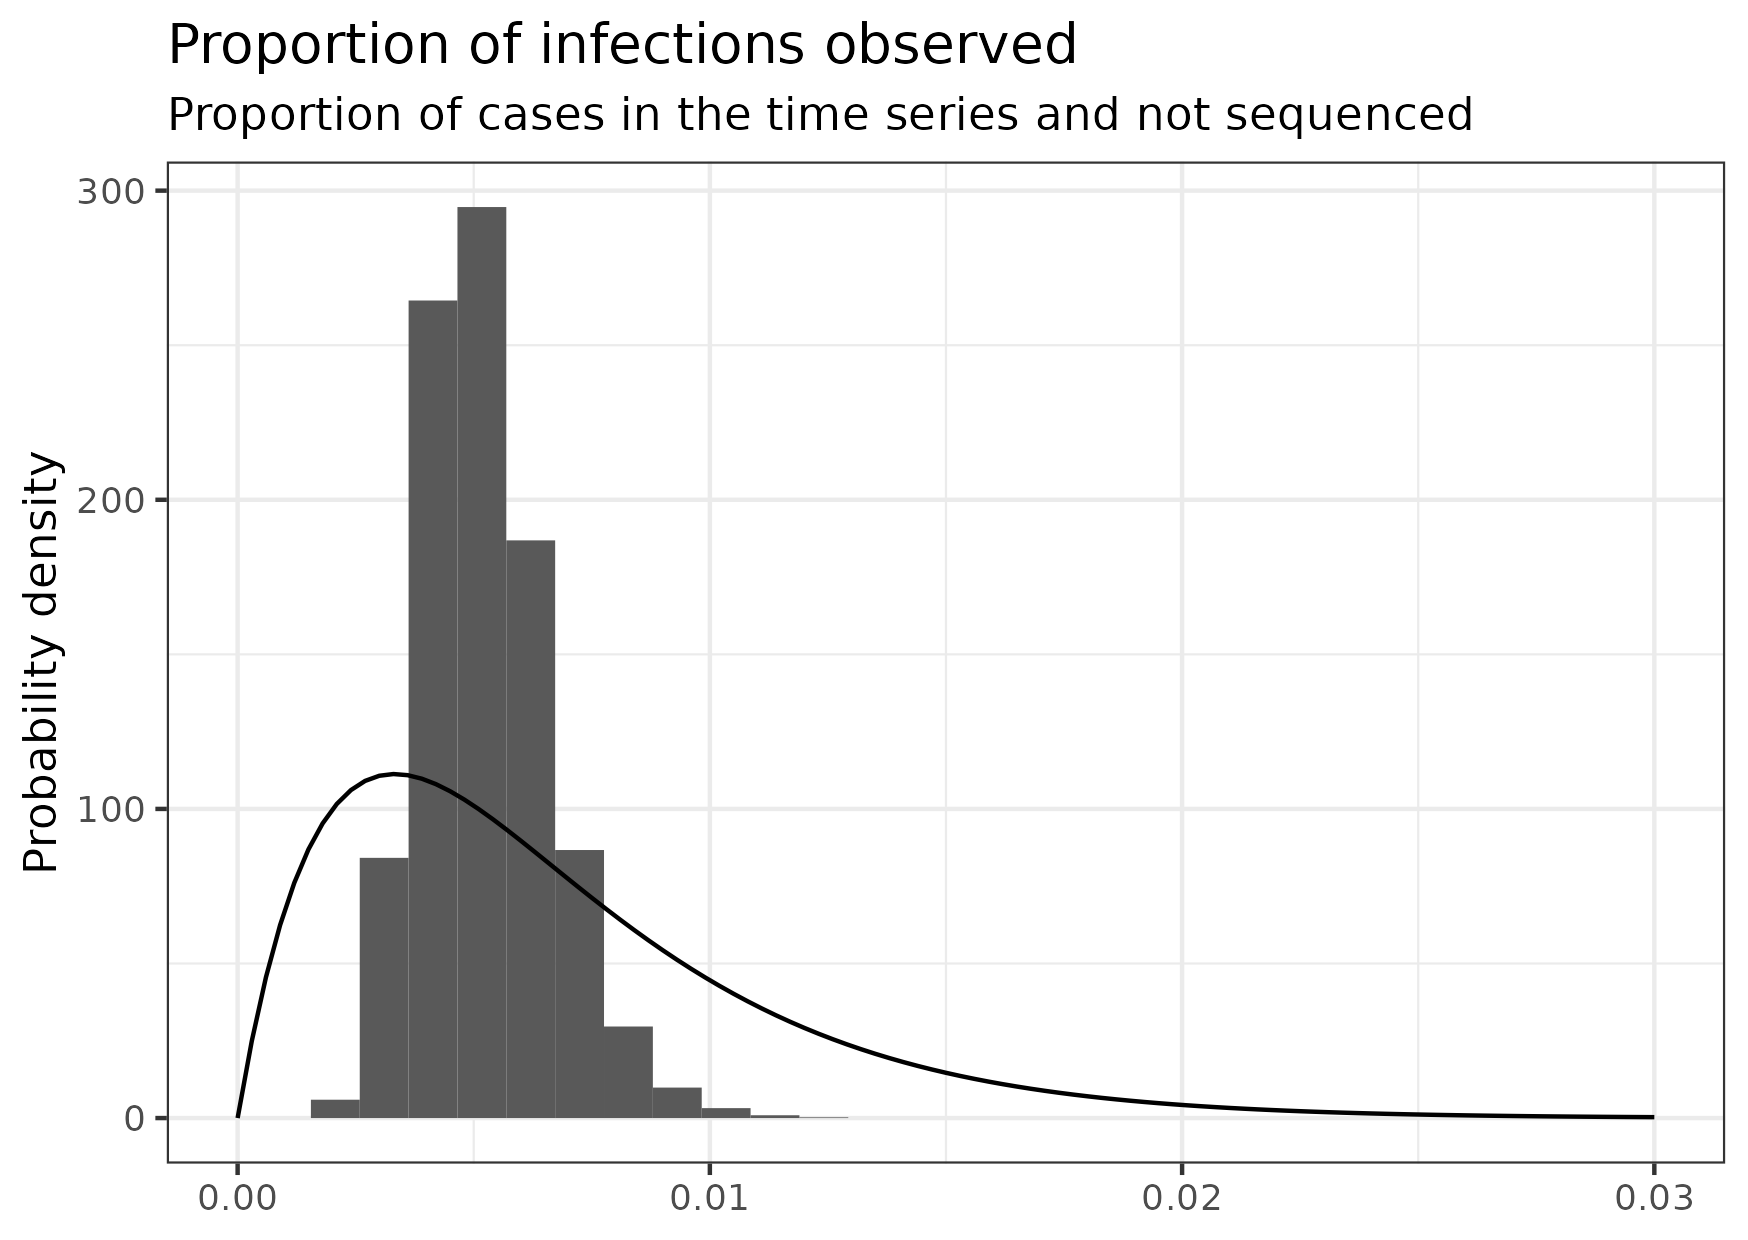
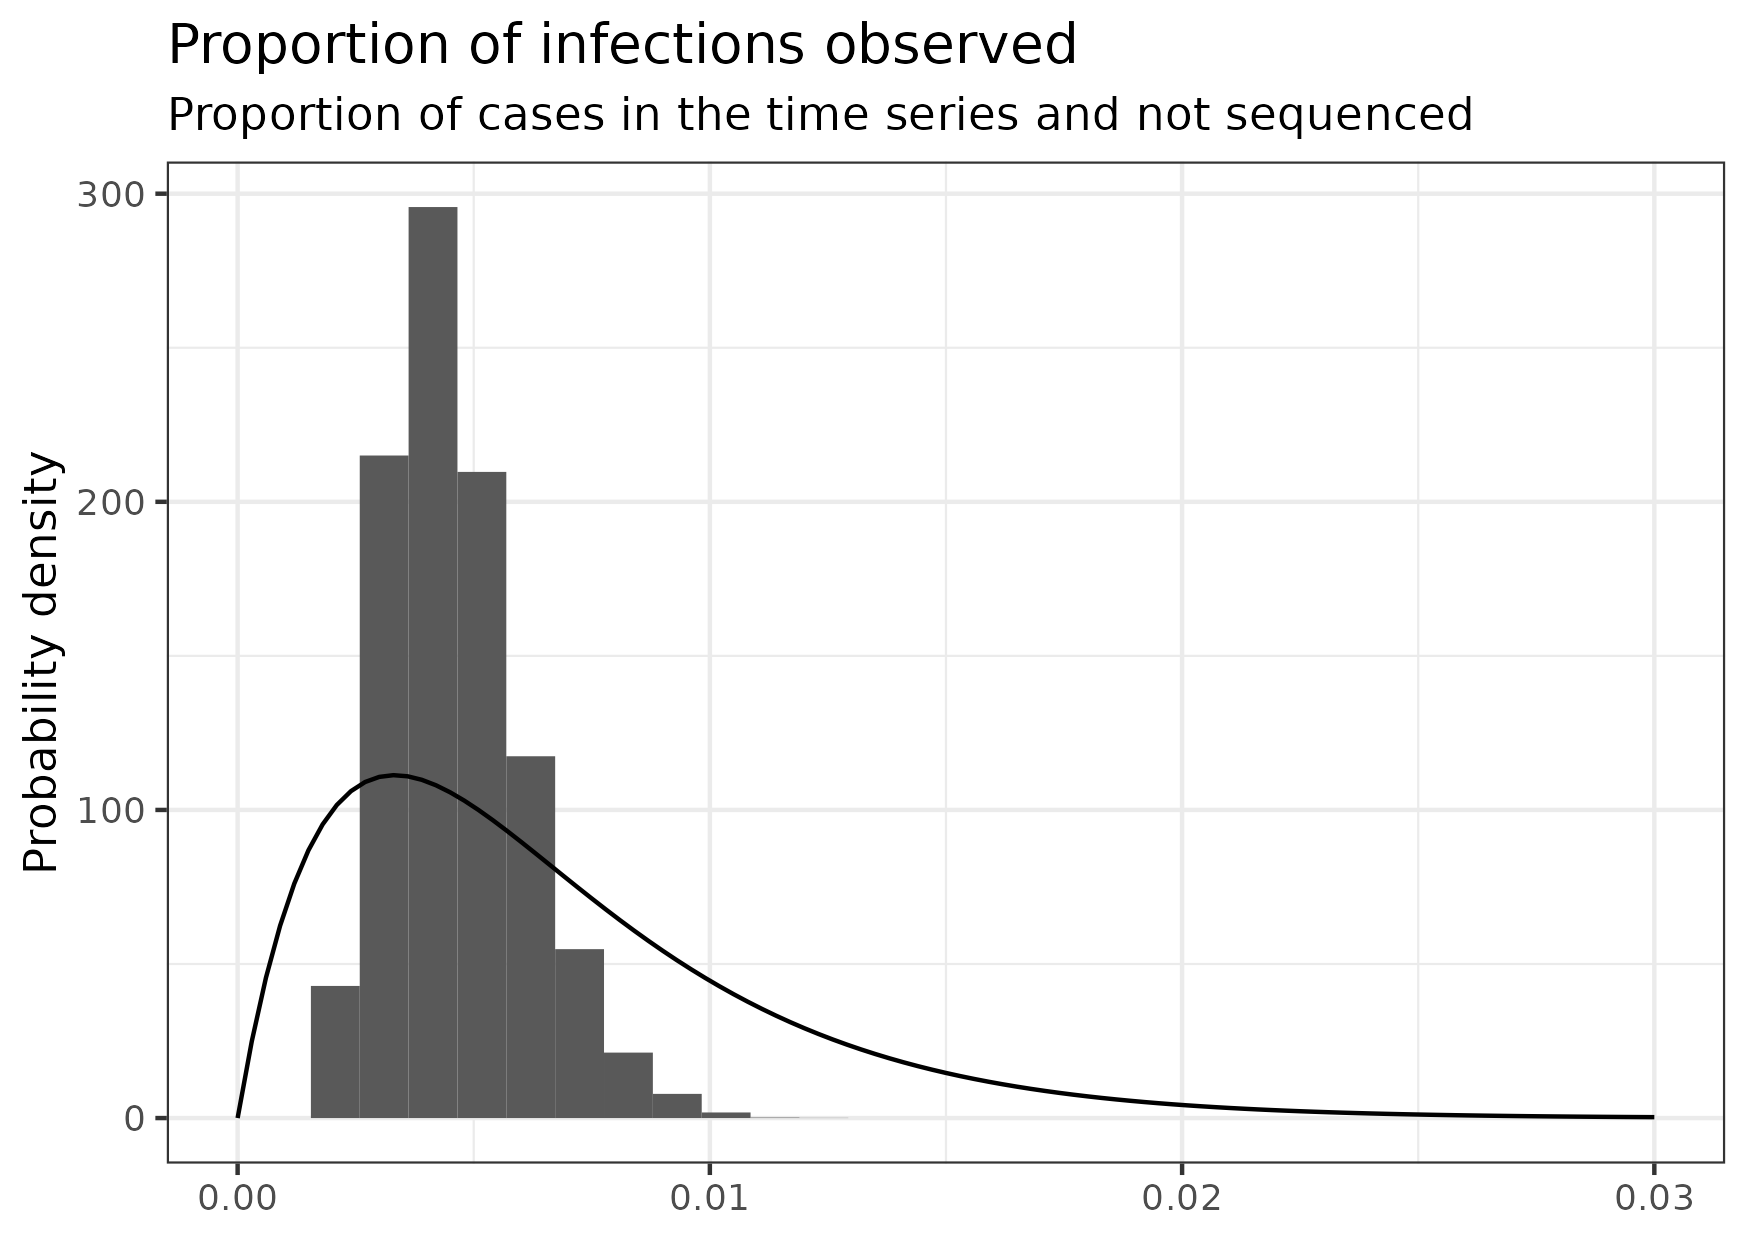
update results

diff --git a/out/manuscript/parameter-estimates.tex b/out/manuscript/parameter-estimates.tex
@@ -1,16 +1,16 @@
 % latex table generated in R 4.3.0 by xtable 1.8-4 package
-% Mon Oct  9 14:46:02 2023
+% Sun Oct 15 16:22:08 2023
 \begin{table}[ht]
 \centering
 \begin{tabular}{lrrr}
   \hline
 variable & est & cri\_lower & cri\_upper \\ 
   \hline
-r\_eff\_1 & 1.62E+00 & 1.50E+00 & 1.71E+00 \\ 
-  r\_eff\_2 & 2.08E-01 & 8.47E-02 & 3.56E-01 \\ 
-  p\_psi & 1.71E-03 & 9.90E-04 & 2.82E-03 \\ 
-  p\_ts & 5.10E-03 & 3.01E-03 & 8.32E-03 \\ 
-  sigma & 1.05E-01 & 1.00E-01 & 1.27E-01 \\ 
+r\_eff\_1 & 1.72E+00 & 1.57E+00 & 1.88E+00 \\ 
+  r\_eff\_2 & 1.08E+00 & 8.67E-01 & 1.30E+00 \\ 
+  p\_psi & 1.48E-03 & 7.89E-04 & 2.72E-03 \\ 
+  p\_ts & 4.40E-03 & 2.40E-03 & 8.03E-03 \\ 
+  sigma & 1.08E-01 & 1.00E-01 & 1.30E-01 \\ 
    \hline
 \end{tabular}
 \end{table}
